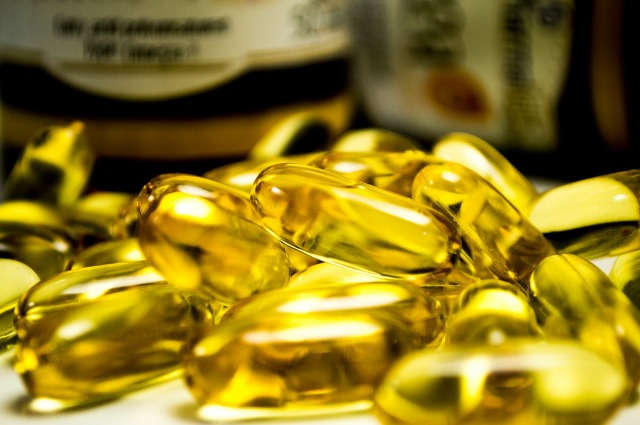
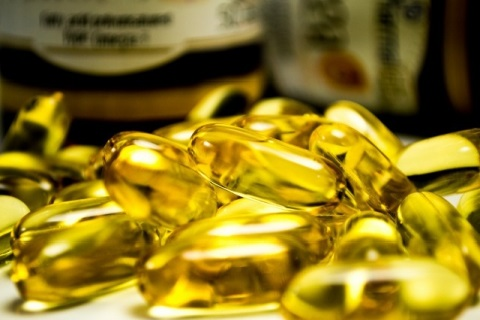
Portal [display] fix image ratio and image size for subject browse

diff --git a/applications/portal/templates/omega/includes/subjects-list.blade.php b/applications/portal/templates/omega/includes/subjects-list.blade.php
@@ -5,7 +5,7 @@
             <div class="figure portfolio-os-animation element-no-top element-no-bottom text-center figcaption-middle normalwidth image-filter-sepia fade-in image-filter-onhover animated fadeIn" data-os-animation="fadeIn" data-os-animation-delay="0s">
                 <div class="element-no-top element-no-bottom text-center figcaption-middle normalwidth image-filter-sepia image-filter-onhover">
                    <a href="{{base_url('subjects').'#!'.$item['query']}}" class="figure-image magnific-vimeo" data-links="" target="_self">
-                       <img src="{{asset_url('images/subjects/'.$item['img'], 'core')}}" alt="" class="normalwidth" style="height:190px">
+                       <img src="{{asset_url('images/subjects/'.$item['img'], 'core')}}" alt="" class="normalwidth">
                     </a>
                 </div>
                 <div class="figure-caption text-center">
